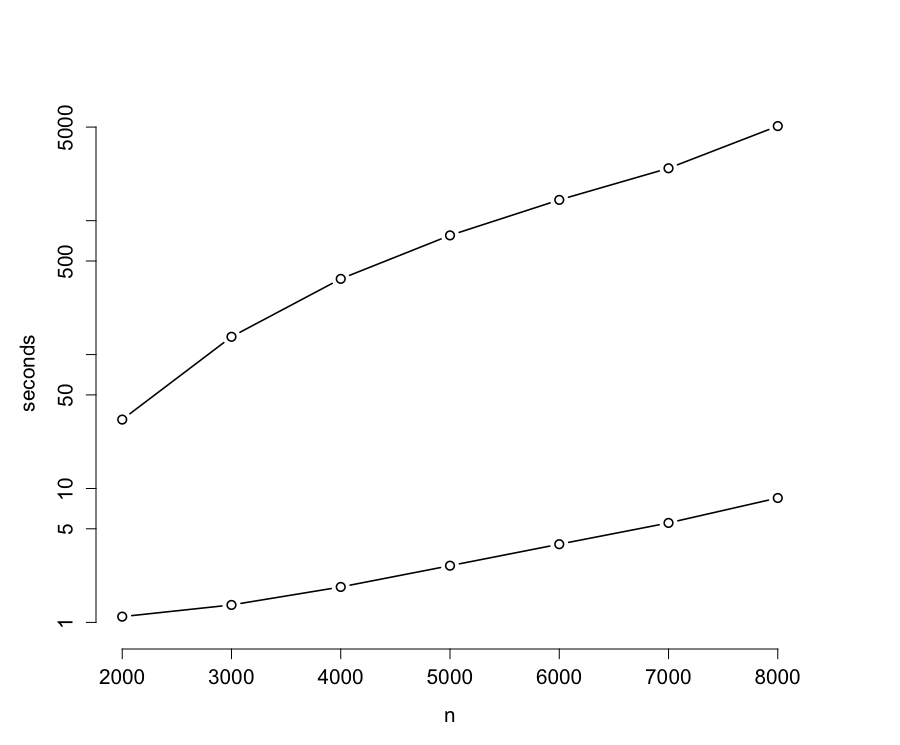
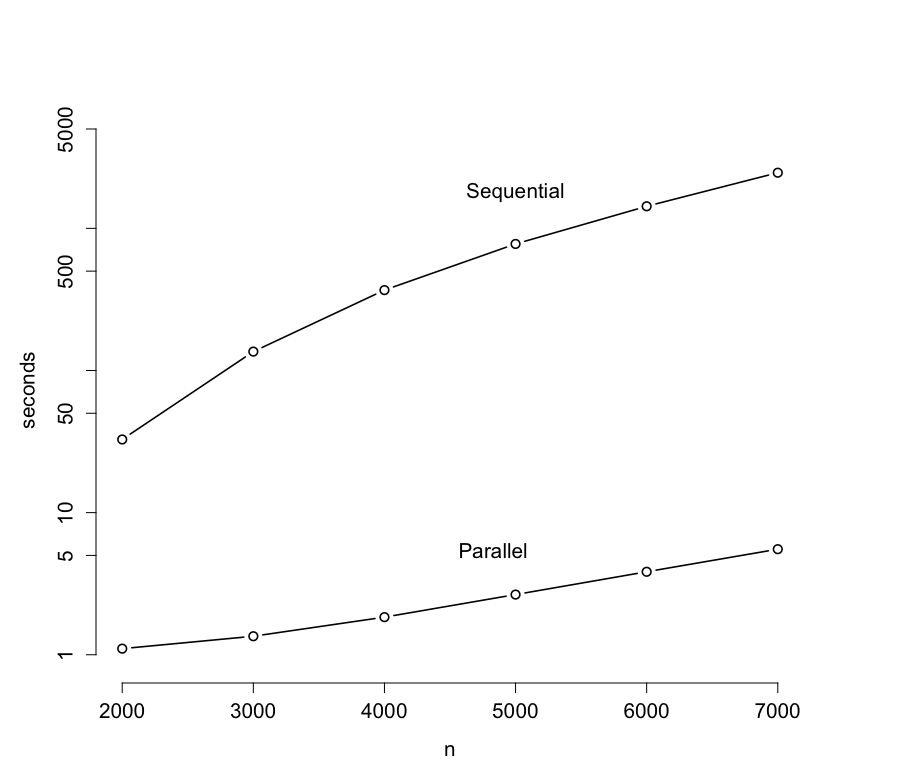
-

diff --git a/README.md b/README.md
@@ -104,12 +104,6 @@ Sequential      2462.2
 Parallel         4.531
 Speedup          543.4
 CPU usage        0.658
-
-n = 8000
-Sequential      4866.5
-Parallel         7.495
-Speedup          649.3
-CPU usage        0.594
 ```
 
 <img src="https://github.com/rustamlatypov/cpu-matrix-multiplication/blob/master/R/Rplot.png" width="650">
